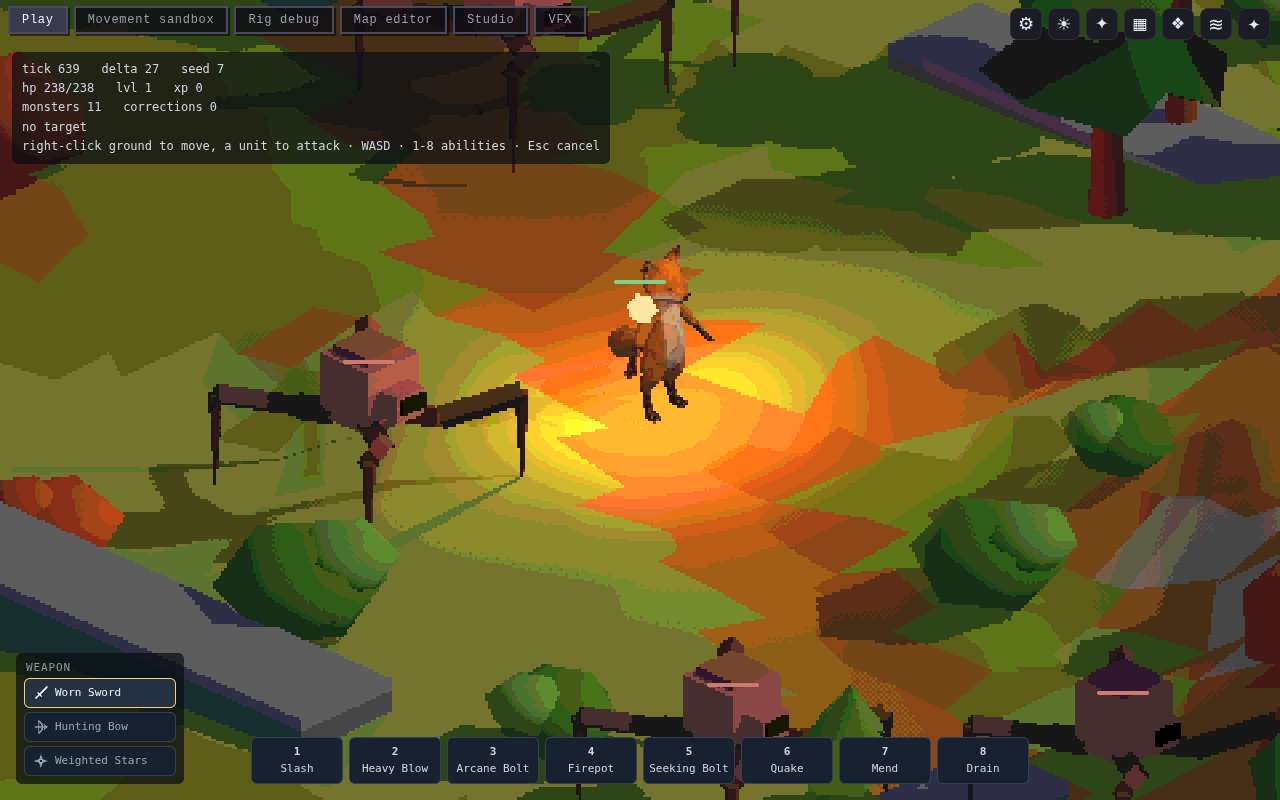
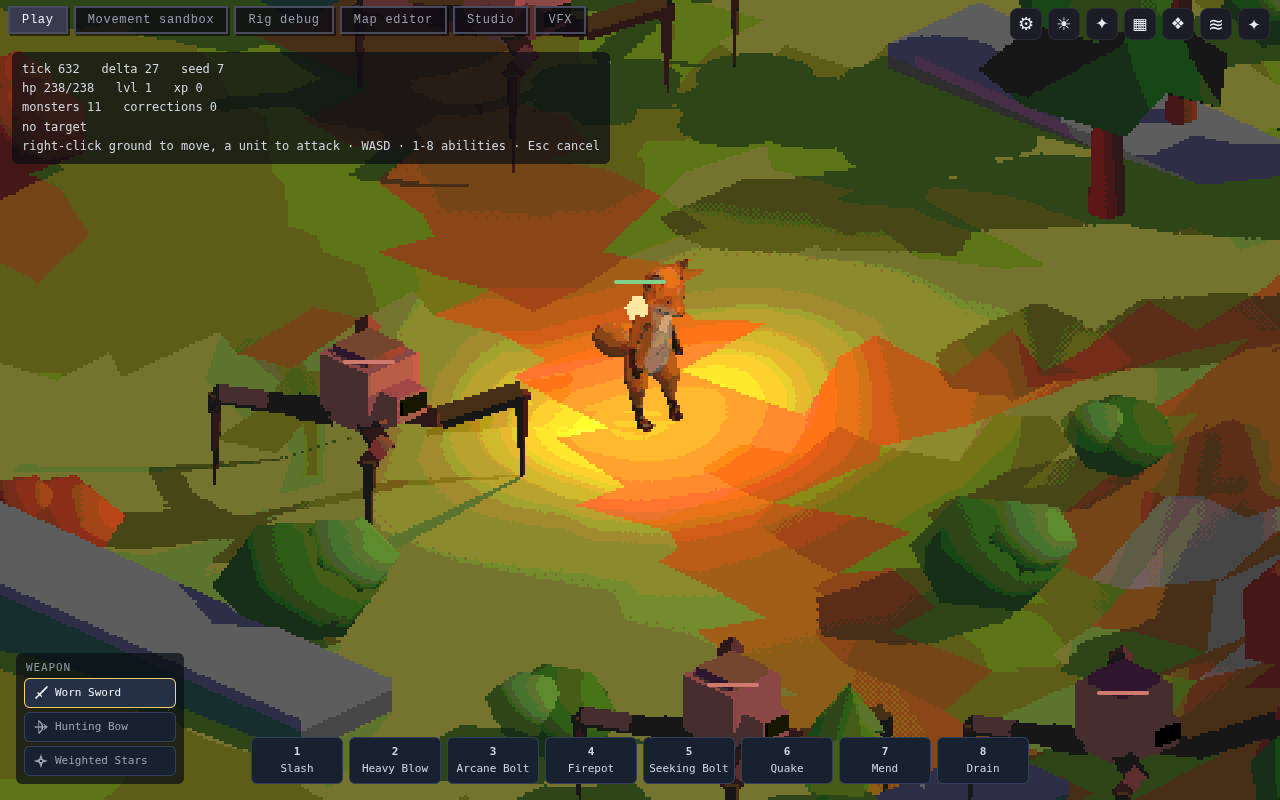
Resolve a clip against the library that lists it, not the unit
The fox loaded, skinned, and stood in its bind pose while the machine
ticked above it. Nothing reported a problem, because nothing had one to
report: a clip's `source` is relative to the library that lists it, the
renderer resolved it against the *unit's* folder instead, the lookup
missed, and the loop skipped it. Five clips, five silent skips, a rig with
no actions, and a readout that still said idle -> locomotion because the
state machine does not know or care whether a clip was ever bound.

The two folders are the same one for as long as every unit owns its clips.
That is the arrangement this format exists to stop being the only one --
a family's library animates every unit in it, so the second unit to join a
family is the first one to reach into another folder, and it was also the
first one to hit this. `..` was the other half: the glob keys carry no
`..`, so `../pig.skeleton.json` matched nothing either and the root-motion
check quietly turned itself off. That one was already true of the pig on
main; it just cost less there.

So paths are flattened before they are matched, clips resolve against the
library's directory, and a clip that cannot be found is now said out loud
-- silence is what made this expensive, since a unit with no clips draws
perfectly and poses nothing, which reads as animation that is merely bad.

probe-travel.ts had the same bug and so gave the same wrong answer twice:
it reported the fox FROZEN on all five clips, which is what a rig with no
[…]

Changed region(s): [[0.4375, 0.3125, 0.5625, 0.5312]]

diff --git a/src/render/iso3d/world/unit-assets.ts b/src/render/iso3d/world/unit-assets.ts
@@ -75,11 +75,33 @@ export const ASSET_MANIFEST_HASH: string = MANIFEST.hash;
  * a change to either side's base cannot silently resolve to nothing.
  */
 function lookup<T>(table: Record<string, T>, path: string): T | undefined {
-  const suffix = `/assets/units/${path}`;
+  const suffix = `/assets/units/${normalize(path)}`;
   for (const [key, value] of Object.entries(table)) {
     if (key.endsWith(suffix)) return value;
   }
   return undefined;
+}
+
+/**
+ * Flattens `.` and `..` out of a manifest-relative path.
+ *
+ * A reference is relative to the document that *made* it, and a unit that
+ * borrows another's clip library reaches sideways to do it -- `../pig.skeleton.json`
+ * from a unit folder, `clips/walk.glb` from a library one folder over. The glob
+ * keys have no `..` in them, so a path carrying one matches nothing, and the two
+ * callers below both treat "no match" as "leave it out" rather than as an error.
+ * That is how the fox came to be drawn with an empty clip set: every lookup
+ * missed, every clip was skipped, and the body stood in its bind pose with the
+ * machine ticking happily above it.
+ */
+function normalize(path: string): string {
+  const out: string[] = [];
+  for (const part of path.split('/')) {
+    if (part === '' || part === '.') continue;
+    if (part === '..') out.pop();
+    else out.push(part);
+  }
+  return out.join('/');
 }
 
 const registry = new Map<AuthoredUnitId, AuthoredUnit>();
@@ -125,11 +147,28 @@ for (const entry of MANIFEST.units) {
     continue;
   }
 
-  // Clip ids are the keys the machine names; the paths come from the library.
+  // Clip ids are the keys the machine names; the paths come from the library --
+  // and they are relative to the *library*, not to the unit. Those are the same
+  // folder only while a unit owns its clips, which is the case this format
+  // exists to stop being the only one: a rig family's library serves every unit
+  // in it, and the second unit to join one is reaching into another folder.
+  // Resolving against `dir` silently found nothing there and left the clip out.
+  const clipDir = clipLibPath === undefined ? dir : clipLibPath.slice(0, clipLibPath.lastIndexOf('/') + 1);
   const clipUrls: Record<string, string> = {};
+  const unresolved: string[] = [];
   for (const clip of clipLib.clips) {
-    const url = lookup(glbUrls, `${dir}${clip.source}`);
+    const url = lookup(glbUrls, `${clipDir}${clip.source}`);
     if (url !== undefined) clipUrls[clip.id] = url;
+    else unresolved.push(clip.source);
+  }
+  // Said out loud, because the failure it replaces was silent in the one way
+  // that matters: a unit with no clips loads, draws, and poses nothing, which
+  // looks exactly like a unit whose animation is merely bad.
+  if (unresolved.length > 0) {
+    console.error(
+      `[units] "${entry.id}" could not resolve ${unresolved.length} clip(s) and will not animate them: ` +
+        `${unresolved.join(', ')}`,
+    );
   }
 
   const skeletonDoc = lookup(jsonDocs, `${dir}${unit.skeletonRef}`)?.default;

diff --git a/scripts/probe-travel.ts b/scripts/probe-travel.ts
@@ -87,6 +87,14 @@ async function main(): Promise<void> {
   });
   await new Promise<void>((resolve) => server.listen(PORT, resolve));
   const base = `http://localhost:${PORT}/${dir}/`;
+  // A clip's `source` is relative to the library that lists it, and the library
+  // is not always in the unit's own folder -- a unit that joins an established
+  // rig family borrows that family's clips from wherever they already live.
+  // Resolving them against the unit instead fetches five 404s, and `UnitRig`
+  // skips a clip it cannot load, so the rig comes up with no actions at all and
+  // every bone reads as FROZEN. That is indistinguishable from the greedy
+  // correction this probe exists to catch, and it is the wrong bug.
+  const clipBase = `http://localhost:${PORT}/${join(dir, unitDoc.clipLibRef, '..')}/`;
 
   const failures: string[] = [];
   try {
@@ -94,7 +102,7 @@ async function main(): Promise<void> {
     await rig.load(
       {
         meshUrl: base + unitDoc.meshRef,
-        clipUrls: Object.fromEntries(clipDoc.clips.map((clip) => [clip.id, base + clip.source])),
+        clipUrls: Object.fromEntries(clipDoc.clips.map((clip) => [clip.id, clipBase + clip.source])),
         importScale: unitDoc.import.scale,
       },
       dir.split('/').pop() ?? 'unit',
